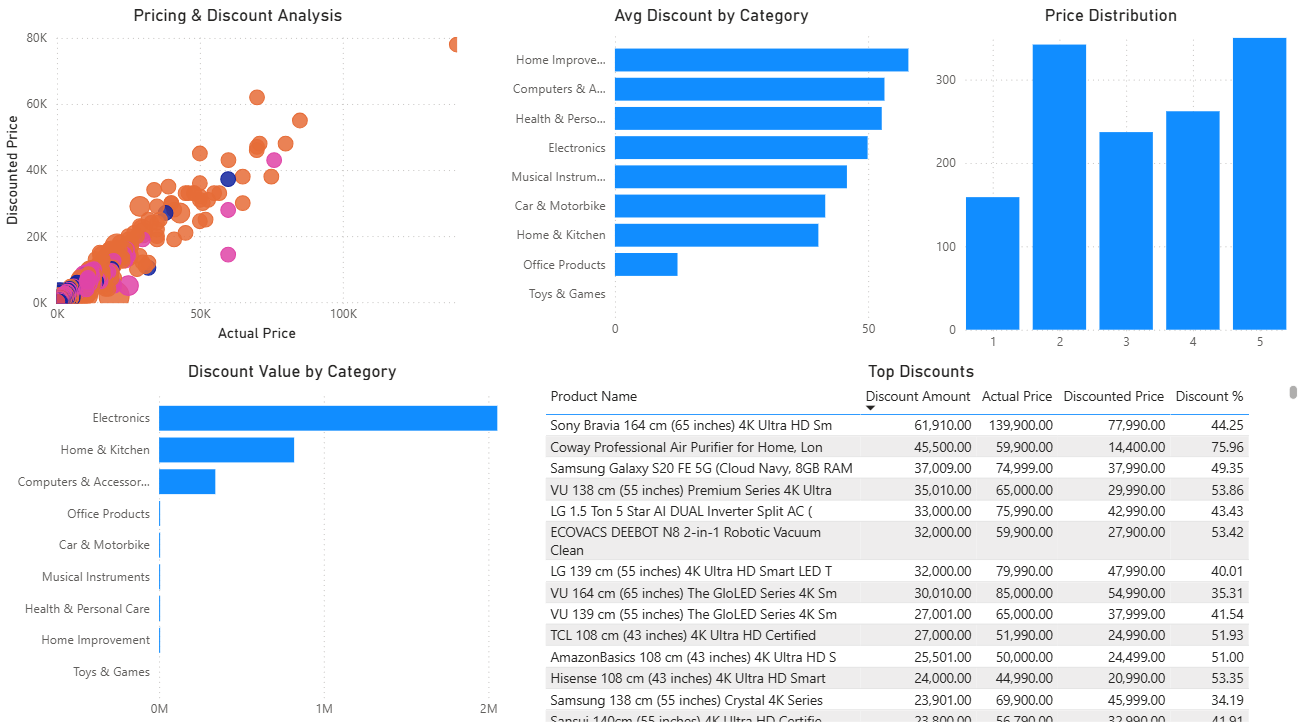
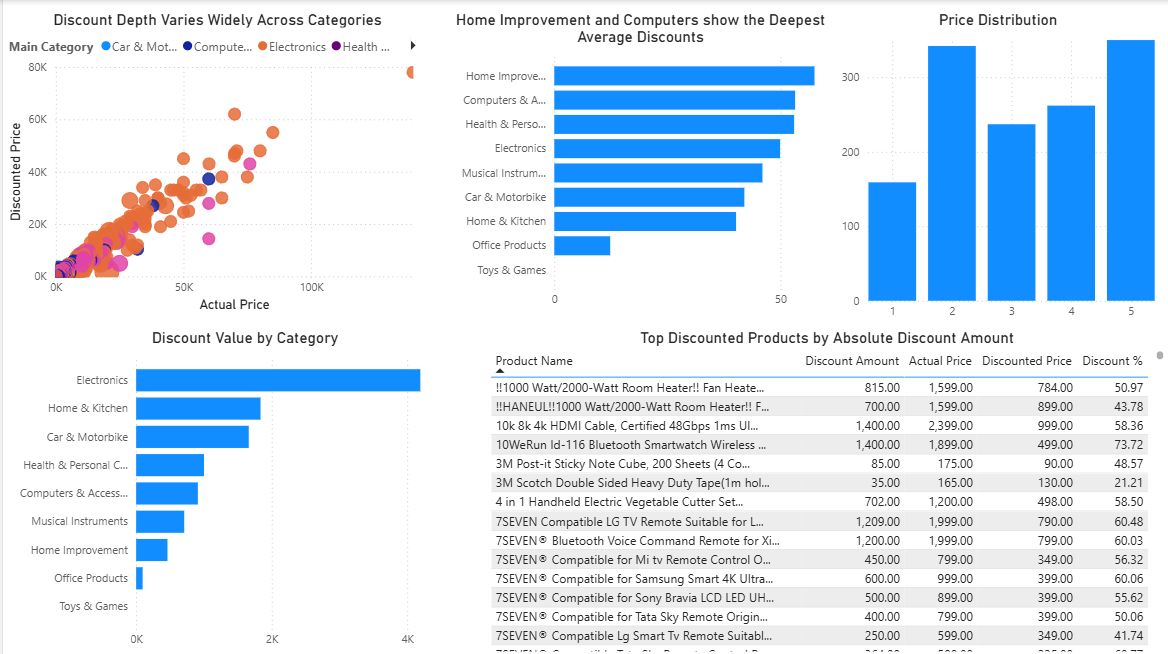
feat: upgrade project to business-focused case study with professional README and dashboard visuals

diff --git a/README.md b/README.md
@@ -1,6 +1,17 @@
 # Amazon Product Analytics: Pricing, Discounts, Ratings & Customer Engagement
 
+## 🧠 Executive Takeaway
+
+Analysis shows that **customer engagement is highly concentrated in a few categories, particularly Electronics**, which generates the majority of product reviews.
+
+Despite widespread discounting, **higher discounts do not consistently improve ratings or engagement**, indicating that pricing alone is not a reliable driver of performance.
+
+The results suggest that **targeted promotions and category-specific strategies are more effective than broad discounting approaches**, with product quality and demand playing a more significant role.
+
+---
+
 ## 📌 Overview
+
 This project is an end-to-end data analytics case study focused on analyzing Amazon product listings to understand how pricing, discount strategies, and customer feedback influence product performance and engagement.
 
 Using Python for data cleaning, SQL for analysis, and Power BI for visualization, the project transforms raw product data into actionable business insights that can support pricing, merchandising, and promotional decisions.
@@ -8,63 +19,72 @@ Using Python for data cleaning, SQL for analysis, and Power BI for visualization
 ---
 
 ## 🎯 Business Problem
+
 Amazon offers a wide range of products across multiple categories, each with different pricing structures, discount strategies, and customer engagement levels.
 
 However, key questions remain:
-- Do higher discounts lead to better product performance?
-- Which categories generate the most customer engagement?
-- Are discounts being used efficiently across categories?
-- Which products outperform their category averages?
+
+* Do higher discounts lead to better product performance?
+* Which categories generate the most customer engagement?
+* Are discounts being used efficiently across categories?
+* Which products outperform their category averages?
 
 This project aims to answer these questions using data-driven analysis.
 
 ---
 
 ## 🎯 Objectives
-- Analyze pricing and discount patterns across product categories
-- Evaluate the relationship between discounts, ratings, and engagement
-- Identify high-performing products and categories
-- Detect inefficiencies in discount strategies
-- Provide actionable business recommendations
+
+* Analyze pricing and discount patterns across product categories
+* Evaluate the relationship between discounts, ratings, and engagement
+* Identify high-performing products and categories
+* Detect inefficiencies in discount strategies
+* Provide actionable business recommendations
 
 ---
 
 ## 📊 Dataset
+
 The dataset consists of Amazon product listings with the following key fields:
 
-- Product Name
-- Category (Main & Sub Category)
-- Actual Price
-- Discounted Price
-- Discount Percentage
-- Rating
-- Rating Count (Customer Reviews)
+* Product Name
+* Category (Main & Sub Category)
+* Actual Price
+* Discounted Price
+* Discount Percentage
+* Rating
+* Rating Count (Customer Reviews)
 
 ---
 
 ## 🛠 Tools & Technologies
-- **Python (Pandas, NumPy)** → Data cleaning & preprocessing
-- **SQL** → Data querying and analysis
-- **Power BI** → Dashboard development & data visualization
-- **DAX** → Custom measures and KPIs
-- **GitHub** → Version control and project documentation
+
+* **Python (Pandas, NumPy)** → Data cleaning & preprocessing
+* **SQL** → Data Querying and Analysis
+* **Power BI** → Dashboard Development & Data Visualization
+* **DAX** → Custom measures and KPIs
+* **GitHub** → Version control and project documentation
 
 ---
 
 ## 🔄 Project Workflow
+
 1. Data Collection
 2. Data Cleaning (Python)
-   - Removed missing and inconsistent values
-   - Converted price fields to numeric format
-   - Standardized categories
+
+   * Removed missing and inconsistent values
+   * Converted price fields to numeric format
+   * Standardized categories
 3. Feature Engineering
-   - Discount Amount
-   - Price Bands
-   - Rating Buckets
-   - Weighted Rating
+
+   * Discount Amount
+   * Price Bands
+   * Rating Buckets
+   * Weighted Rating
 4. SQL Analysis
-   - Aggregations and category-level insights
-   - Identification of high-performing products
+
+   * Aggregations and category-level insights
+   * Identification of high-performing products
 5. Dashboard Development (Power BI)
 6. Insight Generation & Business Recommendations
 
@@ -73,86 +93,165 @@ The dataset consists of Amazon product listings with the following key fields:
 ## 📈 Dashboard Overview
 
 ### Executive Overview
-- Total Products, Average Rating, Total Reviews
-- Category distribution
-- Customer engagement by category
+
+![Executive Overview](images/executive_overview.png)
+
+* Total Products, Average Rating, Total Reviews
+* Category distribution
+* Customer engagement by category
+
+---
 
 ### Pricing & Discount Analysis
-- Relationship between actual price and discounted price
-- Discount trends across categories
-- Top discounted products
+
+![Pricing Analysis](images/pricing_analysis.png)
+
+* Relationship between actual price and discounted price
+* Discount trends across categories
+* Top discounted products
+
+---
 
 ### Product Performance
-- Top products by performance score
-- Rating distribution
-- Products outperforming category averages
+
+![Product Performance](images/product_performance.png)
+
+* Top products by performance score
+* Rating distribution
+* Products outperforming category averages
 
 ---
 
 ## 🔍 Key Insights
 
-- **Electronics dominates customer engagement**, contributing the highest number of reviews across all categories.
-- **Higher discounts do not consistently lead to better ratings**, indicating that discounting alone does not improve perceived product quality.
-- **Customer engagement is concentrated among a small number of products**, suggesting a long-tail distribution.
-- **Pricing and discount behavior varies significantly across categories**, requiring category-specific strategies.
-- **Weighted ratings provide a more reliable performance metric** than simple averages.
+* **Electronics dominates customer engagement**, contributing the highest number of reviews across all categories.
+* **Higher discounts do not consistently lead to better ratings or engagement**, indicating that discounting alone does not improve perceived product quality.
+* **Customer engagement is concentrated among a small number of products**, suggesting a long-tail distribution.
+* **Pricing and discount behavior varies significantly across categories, indicating that a one-size-fits-all discount strategy is ineffective.**
+* **Weighted ratings provide a more reliable performance metric** than simple averages.
 
 ---
 
 ## 💡 Business Recommendations
 
-- Focus promotional efforts on **high-engagement categories** such as Electronics
-- Avoid excessive discounting in **low-performing categories**
-- Use **weighted rating + review count** to identify “hero products”
-- Apply **category-specific pricing strategies** instead of uniform discounting
-- Monitor discount efficiency to ensure **profitability is not sacrificed unnecessarily**
+* **Prioritize high-engagement categories**
+  Focus promotional and marketing efforts on categories such as Electronics, where customer activity and review volume are highest.
+
+* **Optimize discount strategy by category**
+  Avoid applying uniform discounting across all categories. Instead, tailor discount levels based on category performance and engagement patterns.
+
+* **Reduce inefficient discounting**
+  Identify products and categories with high discount percentages but low engagement or ratings, and reassess pricing strategies to protect margins.
+
+* **Promote high-performing products**
+  Use a combination of weighted rating and review volume to identify “hero products” that can be prioritized for campaigns and visibility.
+
+* **Adopt performance-based product ranking**
+  Move beyond average rating by incorporating engagement metrics (e.g., review count, weighted rating) for more reliable product evaluation.
+
+---
+
+## 🧮 SQL Analysis Highlights
+
+SQL was used to explore category-level performance, pricing behavior, and product-level insights.
+
+### Category Performance
+
+```sql
+SELECT main_category,
+       AVG(rating) AS avg_rating,
+       SUM(rating_count) AS total_reviews
+FROM products
+GROUP BY main_category;
+```
+
+➡ Identified Electronics as the highest engagement category.
+
+---
+
+### Discount Efficiency
+
+```sql
+SELECT product_name,
+       discount_percentage,
+       rating
+FROM products
+WHERE discount_percentage > 50
+AND rating < 3.5;
+```
+
+➡ Highlighted products with high discounts but weak performance.
+
+---
+
+### High-Performing Products
+
+```sql
+SELECT product_name,
+       rating,
+       rating_count
+FROM products
+WHERE rating >= 4.0
+AND rating_count > 5000
+ORDER BY rating_count DESC;
+```
+
+➡ Identified top-performing products based on rating and engagement.
 
 ---
 
 ## ⚠ Limitations
 
-- Review count is used as a proxy for customer engagement and does not directly measure sales or revenue
-- The dataset represents a snapshot and does not capture time-based trends
-- Ratings may be biased due to uneven customer participation across categories
+* Review count is used as a proxy for customer engagement and does not directly measure sales or revenue
+* The dataset represents a snapshot and does not capture time-based trends
+* Ratings may be biased due to uneven customer participation across categories
 
 ---
 
 ## 📚 Data Dictionary
 
-| Column | Description |
-|------|------------|
-| actual_price | Original product price |
-| discounted_price | Price after discount |
-| discount_percentage | Percentage reduction |
-| rating | Average customer rating |
-| rating_count | Number of reviews |
-| main_category | Product category |
-| sub_category | Product subcategory |
+| Column              | Description             |
+| ------------------- | ----------------------- |
+| actual_price        | Original product price  |
+| discounted_price    | Price after discount    |
+| discount_percentage | Percentage reduction    |
+| rating              | Average customer rating |
+| rating_count        | Number of reviews       |
+| main_category       | Product category        |
+| sub_category        | Product subcategory     |
 
 ---
 
 ## 🚀 Future Improvements
 
-- Add time-series analysis for trend detection
-- Build a recommendation system for similar products
-- Incorporate sales or revenue data for deeper analysis
-- Perform A/B testing on discount strategies
+* Add time-series analysis for trend detection
+* Build a recommendation system for similar products
+* Incorporate sales or revenue data for deeper analysis
+* Perform A/B testing on discount strategies
 
 ---
 
 ## 🧠 Key Skills Demonstrated
 
-- Data Cleaning & Preprocessing
-- Exploratory Data Analysis (EDA)
-- SQL Querying & Aggregation
-- Data Visualization (Power BI)
-- Business Insight Generation
-- Analytical Thinking
+* Data Cleaning & Preprocessing
+* Exploratory Data Analysis (EDA)
+* SQL Querying & Aggregation
+* Data Visualization (Power BI)
+* Business Insight Generation
+* Analytical Thinking
 
 ---
 
 ## 📎 Project Files
-- Power BI Dashboard (.pbix)
-- Python Notebook (Data Cleaning)
-- SQL Queries (Analysis)
-- Dataset (CSV)
+
+* Power BI Dashboard (.pbix)
+* Python Notebook (Data Cleaning)
+* SQL Queries (Analysis)
+* Dataset (CSV)
+
+---
+
+## 📊 Live Dashboard
+
+You can download and explore the interactive dashboard here:
+[Download Power BI File](powerbi/amazon_product_analytics.pbix)
